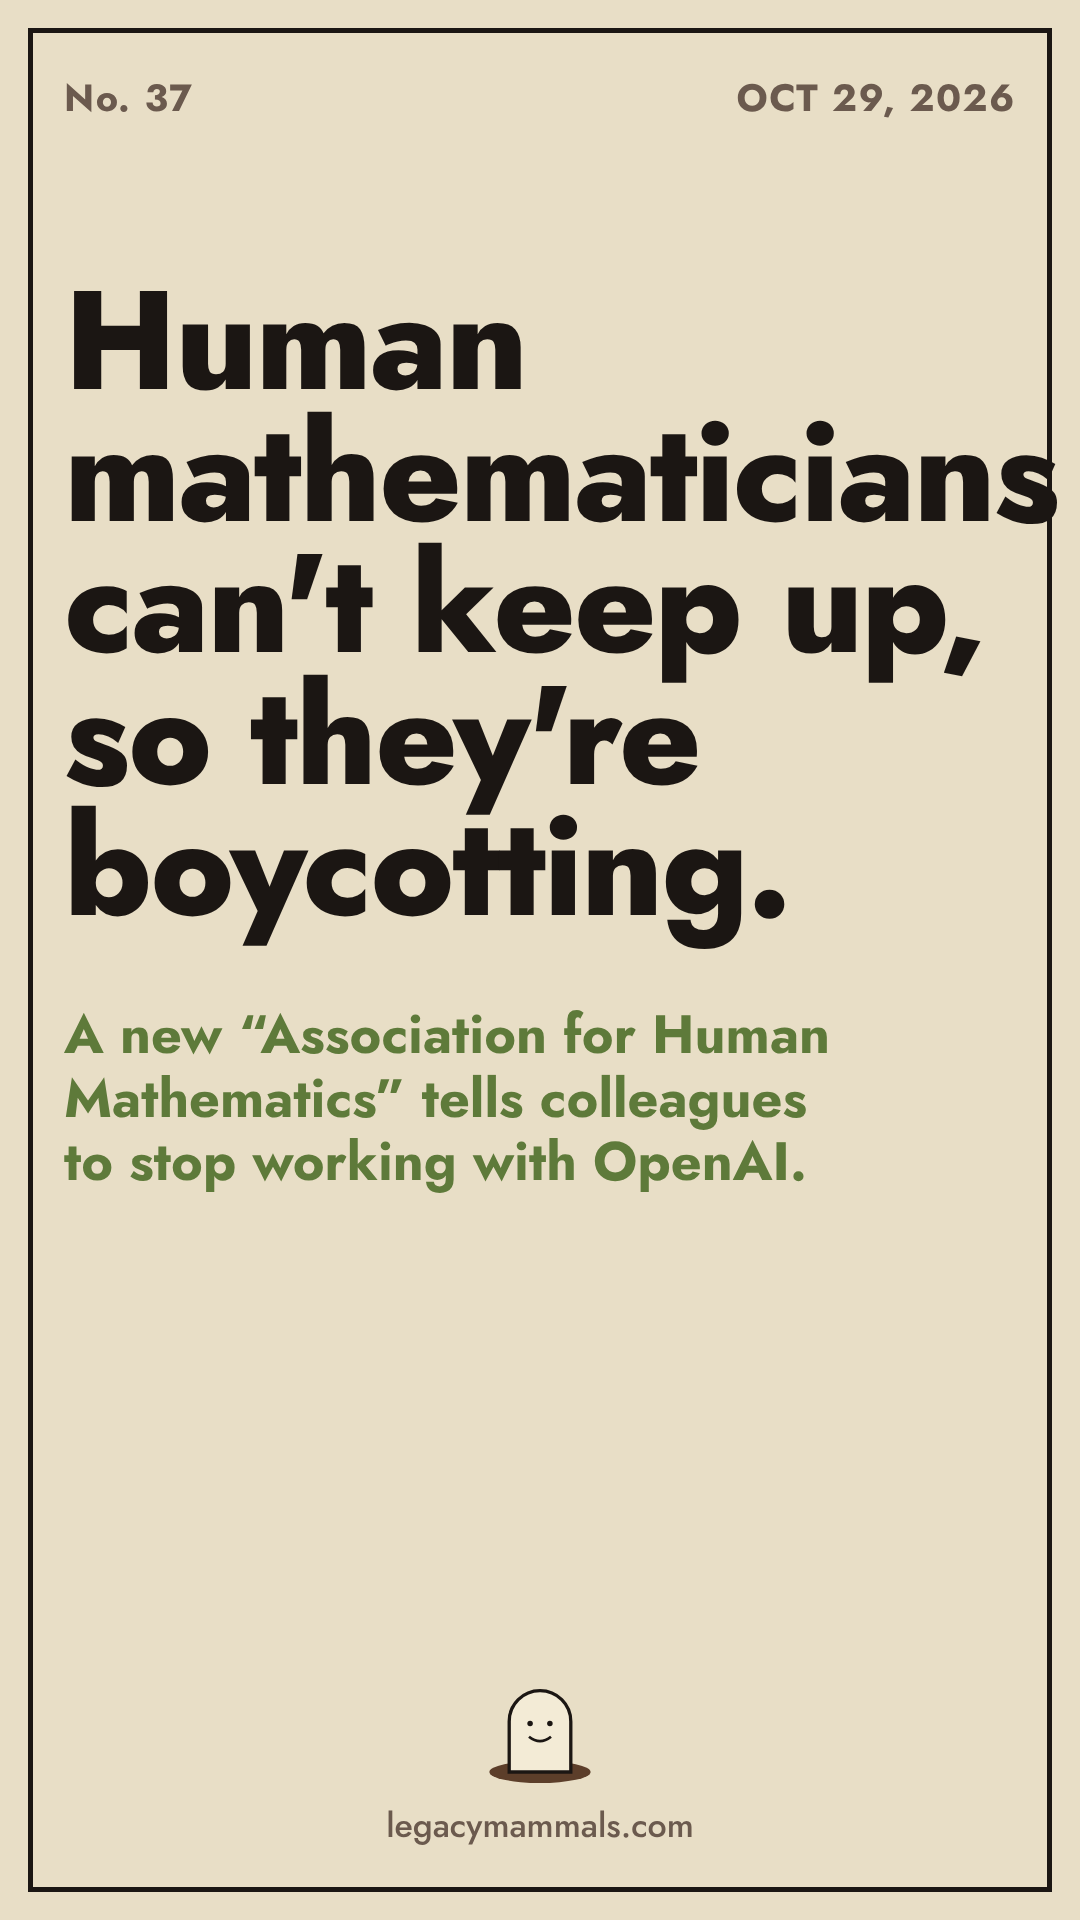
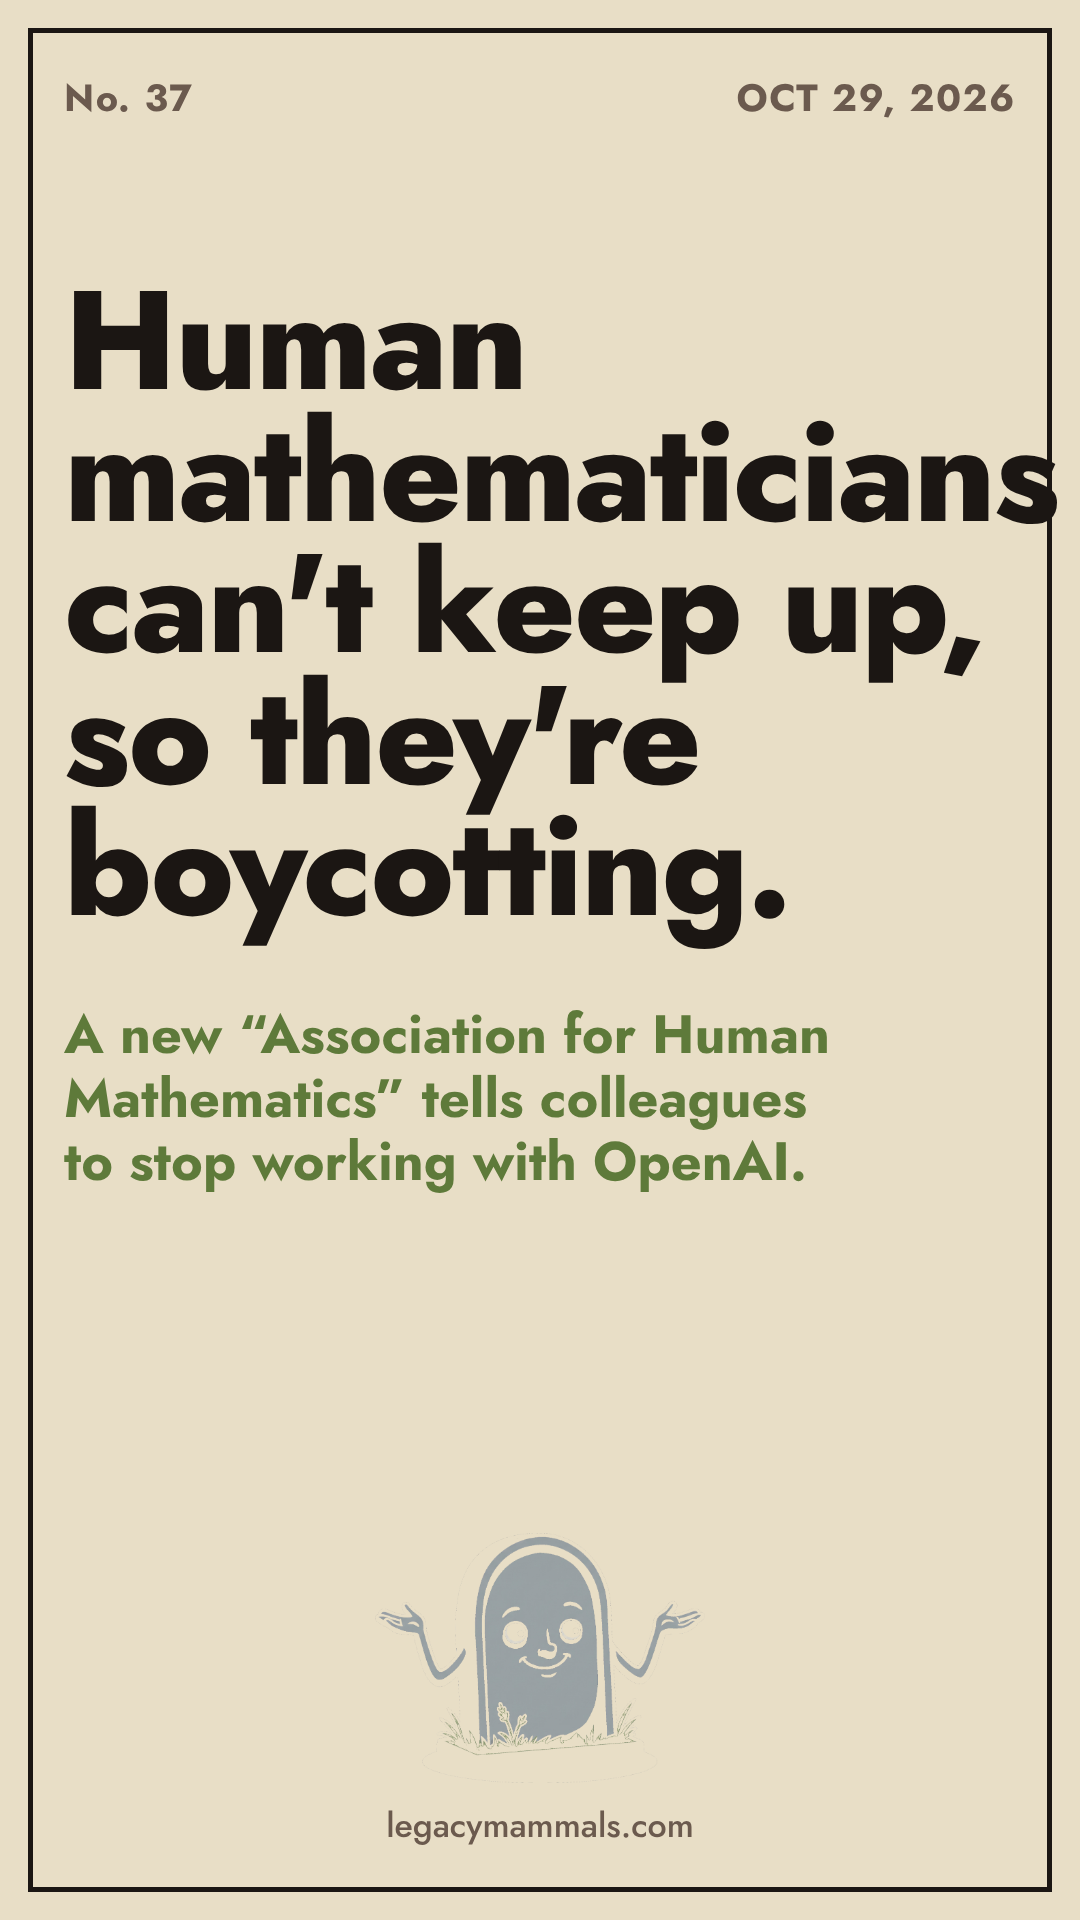
The shrugging headstone as the mark on the reel cards; img/mark.png
Claude-Session: https://claude.ai/code/session_01UT8Dn4BonstVXXBgMgCnTf

Changed region(s): [[0.3667, 0.7812, 0.6417, 0.9375]]

diff --git a/reels/no37/cards.js b/reels/no37/cards.js
@@ -11,6 +11,7 @@ const fs = require("fs");
 const here = __dirname, fonts = path.resolve(here, "..", "fonts");
 const INK = "#1B1613", BEIGE = "#E8DEC6", META = "#6B5A4E", OLIVE = "#5E7A3A", CREAM = "#F3EBD6", BROWN = "#5C3E2A";
 const ROOM = path.join(here, "frame-11-empty-1.jpeg");
+const MARK = path.resolve(here, "..", "..", "img", "mark.png"); // the shrugging headstone
 
 const face = `@font-face{font-family:Jost;font-weight:800;src:url(file://${fonts}/Jost-800-Heavy.ttf)}
 @font-face{font-family:Jost;font-weight:700;src:url(file://${fonts}/Jost-700-Bold.ttf)}
@@ -19,10 +20,8 @@ const face = `@font-face{font-family:Jost;font-weight:800;src:url(file://${fonts
 @font-face{font-family:Jost;font-weight:400;src:url(file://${fonts}/Jost-400-Book.ttf)}
 *{box-sizing:border-box;margin:0}body{width:1080px;height:1920px;overflow:hidden;font-family:Jost,sans-serif;color:${INK}}`;
 
-// the site's mark: a little headstone with a face
-const stone = (s = 1) => `<svg width="${140 * s}" height="${110 * s}" viewBox="-70 -60 140 110"><ellipse cx="0" cy="40" rx="46" ry="10" fill="${BROWN}"/>
-  <path d="M-28,40 v-46 a28,28 0 0 1 56,0 v46z" fill="${CREAM}" stroke="${INK}" stroke-width="3"/>
-  <circle cx="-9" cy="-4" r="2.5" fill="${INK}"/><circle cx="9" cy="-4" r="2.5" fill="${INK}"/><path d="M-10,8 q10,8 20,0" fill="none" stroke="${INK}" stroke-width="2.5"/></svg>`;
+// the site's mark: the shrugging headstone
+const stone = (s = 1) => `<img class="mark" src="file://${MARK}" style="width:${Math.round(300 * s)}px;height:auto">`;
 
 const title = `<!doctype html><meta charset="utf-8"><style>${face}
 body{background:${BEIGE};padding:70px 64px;display:flex;flex-direction:column}
@@ -39,11 +38,11 @@ h2{font-weight:700;font-size:54px;line-height:1.18;color:${OLIVE};margin-top:70p
 
 const end = `<!doctype html><meta charset="utf-8"><style>${face}
 body{background:${INK}}
-img{position:absolute;inset:0;width:1080px;height:1920px;object-fit:cover}
+img.bg{position:absolute;inset:0;width:1080px;height:1920px;object-fit:cover}
 .band{position:absolute;left:0;right:0;bottom:0;height:620px;background:linear-gradient(to bottom, rgba(232,222,198,0) 0%, rgba(232,222,198,.96) 38%, rgba(232,222,198,1) 100%);display:flex;flex-direction:column;align-items:center;justify-content:flex-end;padding-bottom:110px;gap:14px}
 .site{font-size:64px;font-weight:800;letter-spacing:-.01em}.at{font-size:40px;font-weight:500;color:${META}}
 .line{font-size:36px;font-weight:500;font-style:italic;color:${META};margin-bottom:26px}
-</style><body><img src="file://${ROOM}"><div class="band"><div class="line">We had our turn.</div>${stone(1.2)}<div class="site">legacymammals.com</div><div class="at">@legacymammals</div></div></body>`;
+</style><body><img class="bg" src="file://${ROOM}"><div class="band"><div class="line">We had our turn.</div>${stone(1.2)}<div class="site">legacymammals.com</div><div class="at">@legacymammals</div></div></body>`;
 
 (async () => {
   const browser = await chromium.launch();
